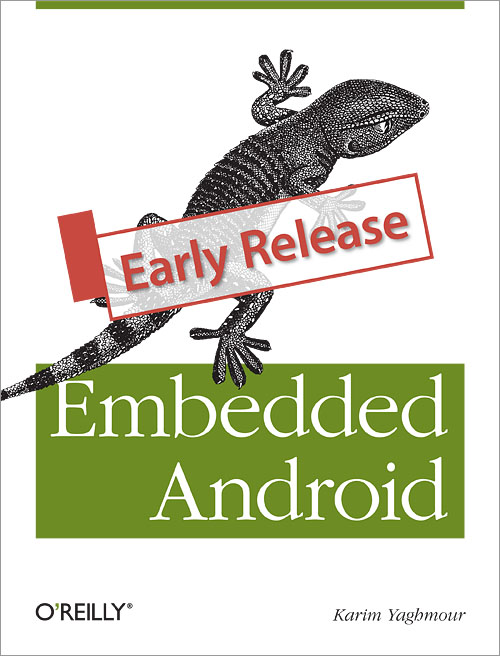
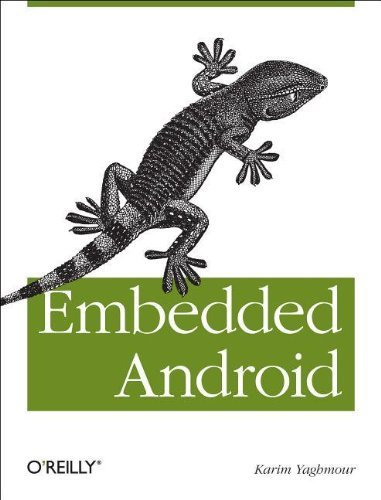
Karim's book now released

diff --git a/slides/android-resources/android-resources.tex b/slides/android-resources/android-resources.tex
@@ -4,12 +4,11 @@
   \frametitle{Android Internals}
   \begin{columns}
     \column{0.7\textwidth}
-    Embedded Android: Porting, Extending, and Customizing, January 2013 (expected)
+    Embedded Android: Porting, Extending, and Customizing, April 2013
     \begin{itemize}
     \item By Karim Yaghmour, O'Reilly
-    \item Should be a good reference book and guide on all hidden and
-      undocumented Android internals
-    \item Early version available on-line at O'Reilly
+    \item From what we know from the preview version, good reference book and guide
+      on all hidden and undocumented Android internals
     \item Our rating: 3 stars
     \end{itemize}
     \column{0.3\textwidth}
